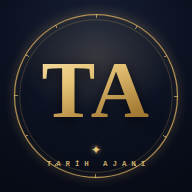
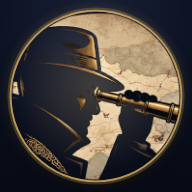
Marka: TA monogrami silindi - gercek durbunlu dedektif logosu her yerde
- Uygulama ikonu artik gercek marka amblemi: durbunlu dedektif, koyu
  lacivert zeminde altin halkayla tam kare (192/512/maskable yeniden).
- Zaman tuneli giris muhrundeki TA yazisi kaldirildi; yerine ayni
  dedektif amblemi (altin cerceveli, nefes alan parilti korundu).

Claude-Session: https://claude.ai/code/session_01BJwyexEs32mALDFgTCvWVh

diff --git a/zaman-tuneli/index.html b/zaman-tuneli/index.html
@@ -99,10 +99,10 @@
     .be-ring.r2{inset:11%;border:1px dashed rgba(230,196,120,.4);animation:spin 22s linear infinite reverse}
     .be-ring.r3{inset:23%;border:1px solid rgba(201,162,90,.3);border-left-color:transparent;border-right-color:transparent;animation:spin 9s linear infinite}
     .be-tick{position:absolute;inset:5.5%;border-radius:50%;background:repeating-conic-gradient(rgba(230,196,120,.5) 0 .35deg,transparent .35deg 6deg);-webkit-mask:radial-gradient(circle,transparent 62%,#000 63%,#000 66%,transparent 67%);mask:radial-gradient(circle,transparent 62%,#000 63%,#000 66%,transparent 67%);animation:spin 40s linear infinite}
-    .be-mono{font:800 clamp(2.6rem,7vw,4rem)/1 'Playfair Display',serif;letter-spacing:.06em;background:linear-gradient(110deg,#B18742,#E6C478 45%,#FFF0B1 55%,#9D7536);-webkit-background-clip:text;background-clip:text;color:transparent;filter:drop-shadow(0 4px 18px rgba(0,0,0,.85));animation:mono-breathe 3.2s ease-in-out infinite}
+    .be-mono{width:58%;height:58%;border-radius:50%;object-fit:cover;box-shadow:0 0 0 3px rgba(201,162,90,.75),0 14px 40px rgba(0,0,0,.7);animation:mono-breathe 3.2s ease-in-out infinite}
     @keyframes spin{to{transform:rotate(360deg)}}
     @keyframes emb-in{from{opacity:0;transform:scale(.55) rotate(-14deg);filter:blur(8px)}to{opacity:1;transform:scale(1) rotate(0);filter:blur(0)}}
-    @keyframes mono-breathe{0%,100%{filter:drop-shadow(0 4px 18px rgba(0,0,0,.85)) drop-shadow(0 0 10px rgba(230,196,120,.25))}50%{filter:drop-shadow(0 4px 18px rgba(0,0,0,.85)) drop-shadow(0 0 26px rgba(230,196,120,.6))}}
+    @keyframes mono-breathe{0%,100%{box-shadow:0 0 0 3px rgba(201,162,90,.75),0 14px 40px rgba(0,0,0,.7),0 0 12px rgba(230,196,120,.25)}50%{box-shadow:0 0 0 3px rgba(230,196,120,.95),0 14px 40px rgba(0,0,0,.7),0 0 30px rgba(230,196,120,.6)}}
     .boot-line{margin:20px 0 0;color:#b8b3a6;font:400 .6rem/1 'Special Elite',monospace;letter-spacing:.3em;opacity:0;animation:reveal .5s 1.68s ease forwards}
     .boot-bar{width:min(320px,64vw);height:2px;margin:15px auto 0;background:rgba(201,162,90,.16);overflow:hidden;opacity:0;animation:reveal .4s 1.74s ease forwards}
     .boot-bar i{display:block;height:100%;background:linear-gradient(90deg,#A77D35,#E6C478,#FFF0B1);transform:scaleX(0);transform-origin:left;animation:bfill 1.55s 1.8s cubic-bezier(.35,.6,.25,1) forwards;box-shadow:0 0 12px rgba(230,196,120,.8)}
@@ -219,7 +219,7 @@
           <span class="be-ring r2"></span>
           <span class="be-ring r3"></span>
           <span class="be-tick"></span>
-          <span class="be-mono">TA</span>
+          <img class="be-mono" src="/assets/logo-mark.png" alt="Tarih Ajanı">
         </div>
         <p class="boot-kick">TARİH AJANI</p>
         <p class="boot-line">GEÇİT AÇILIYOR</p>